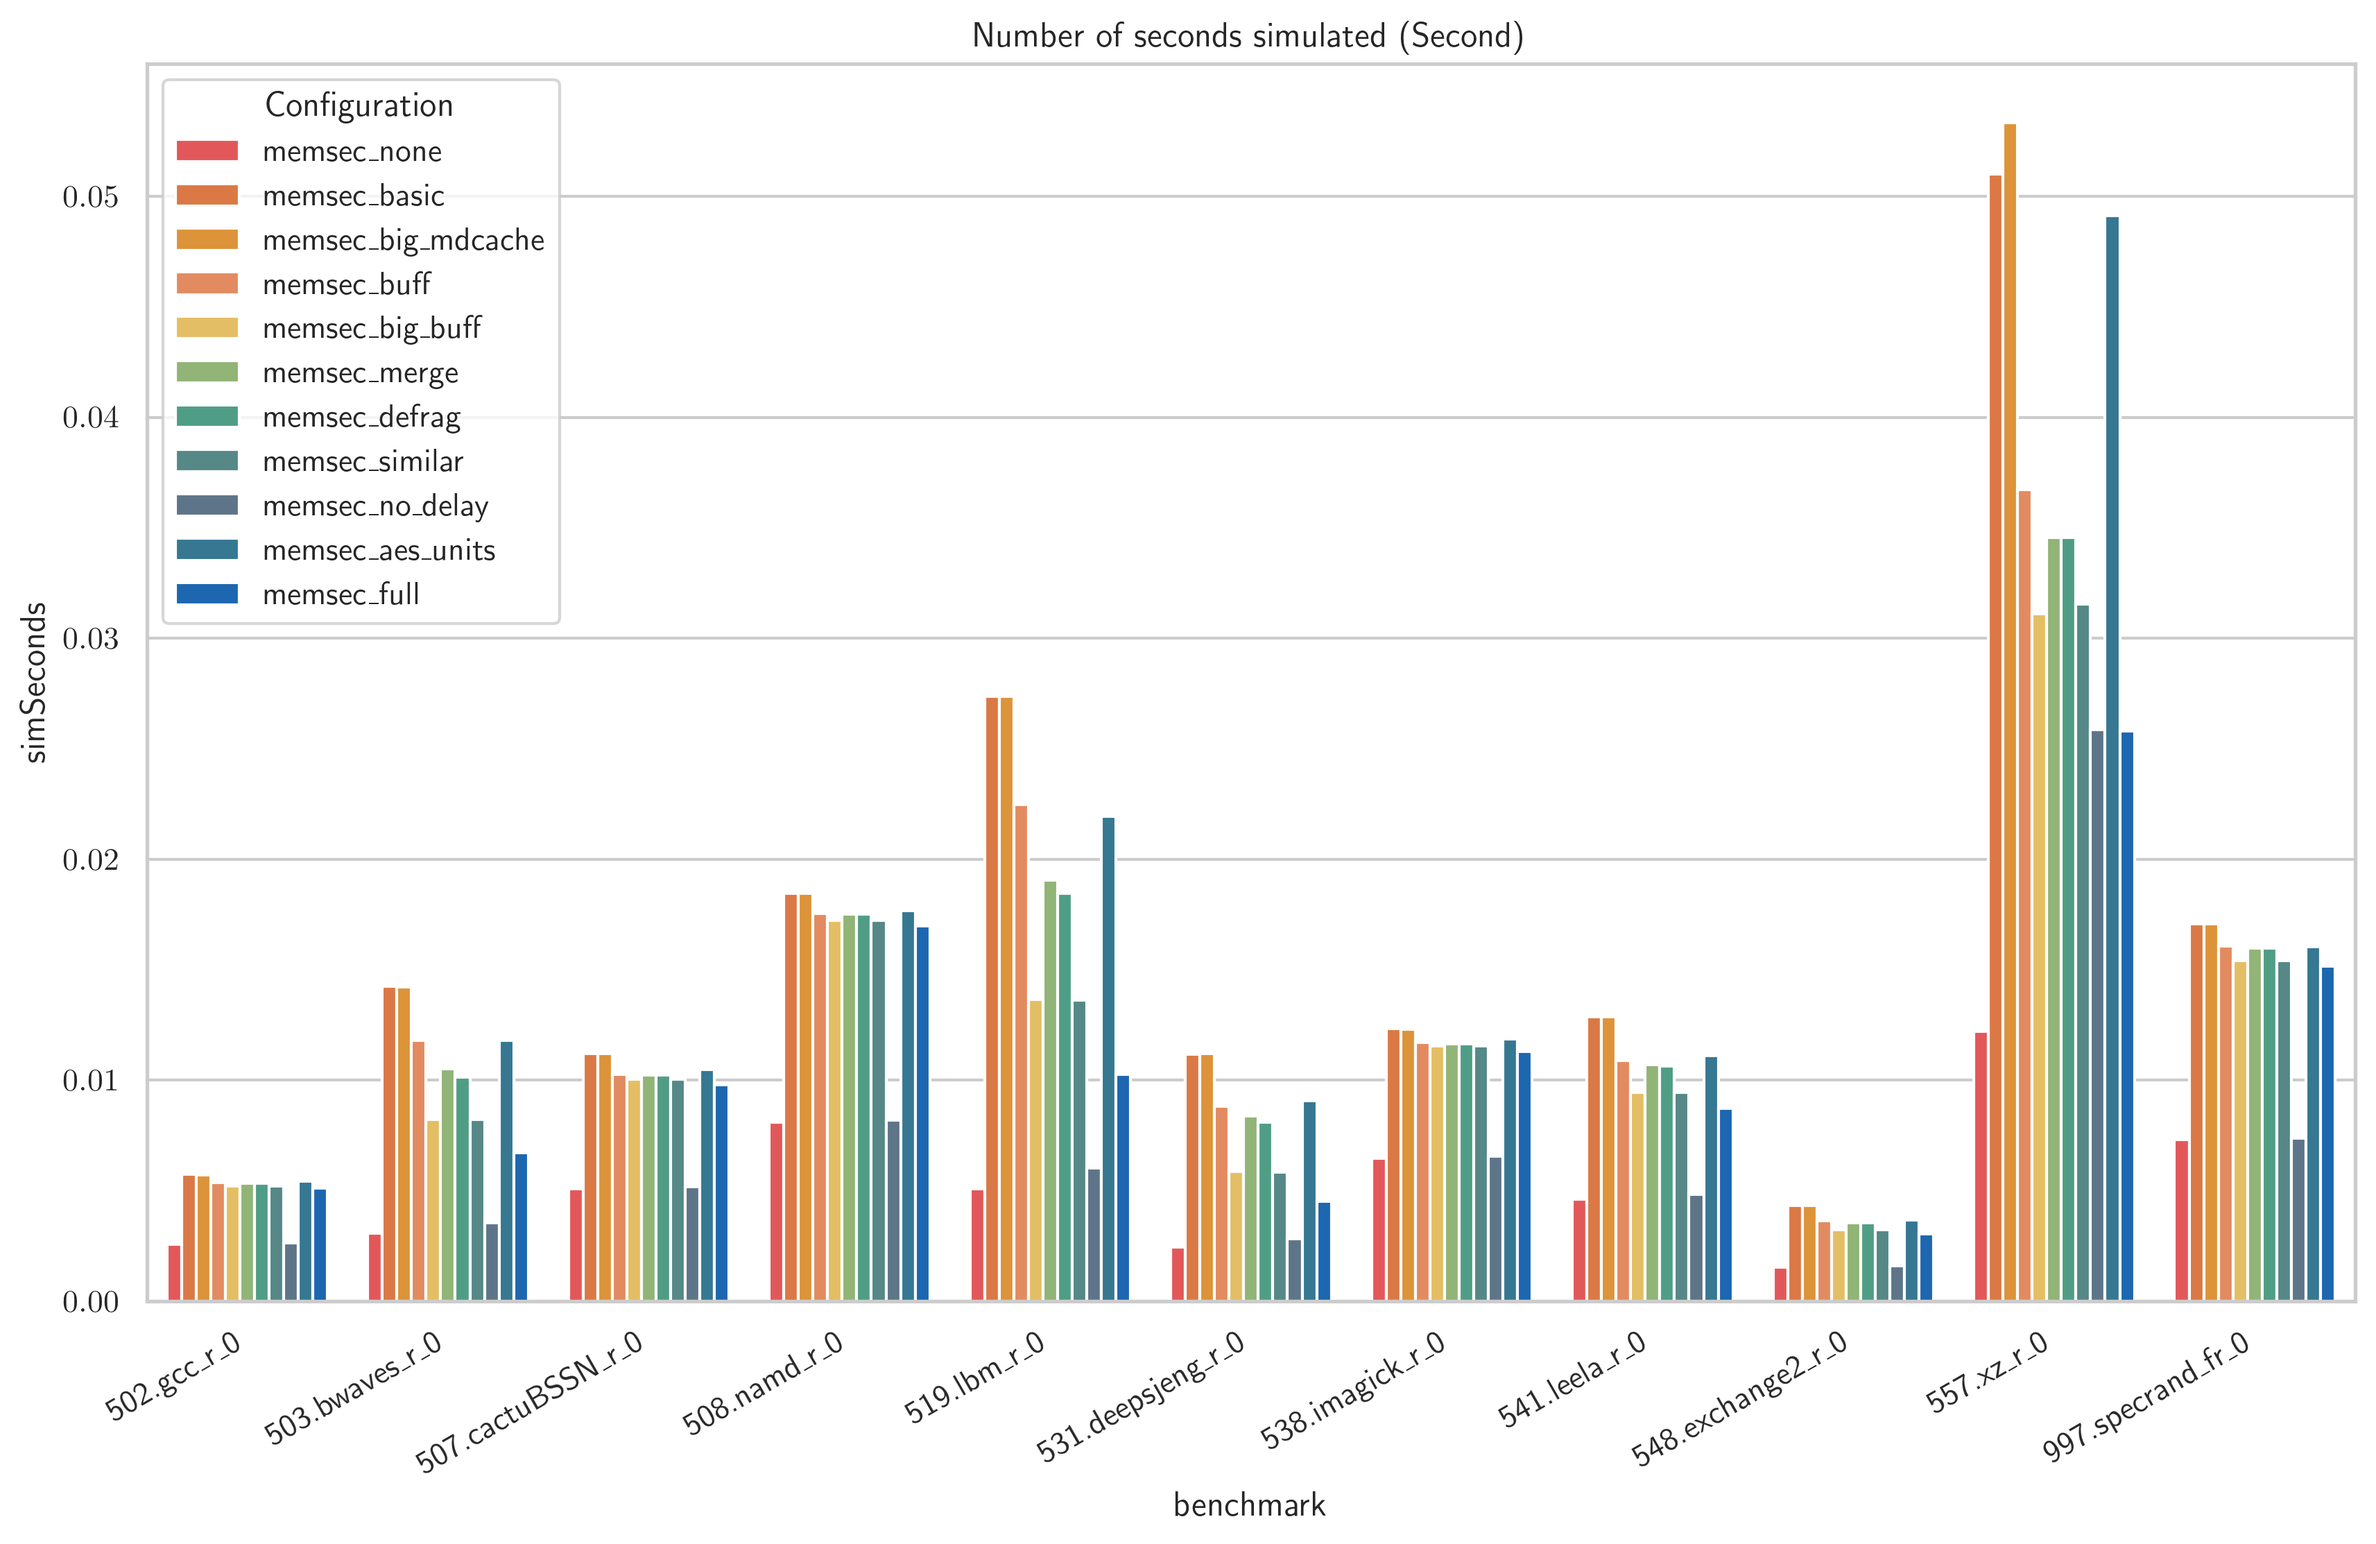
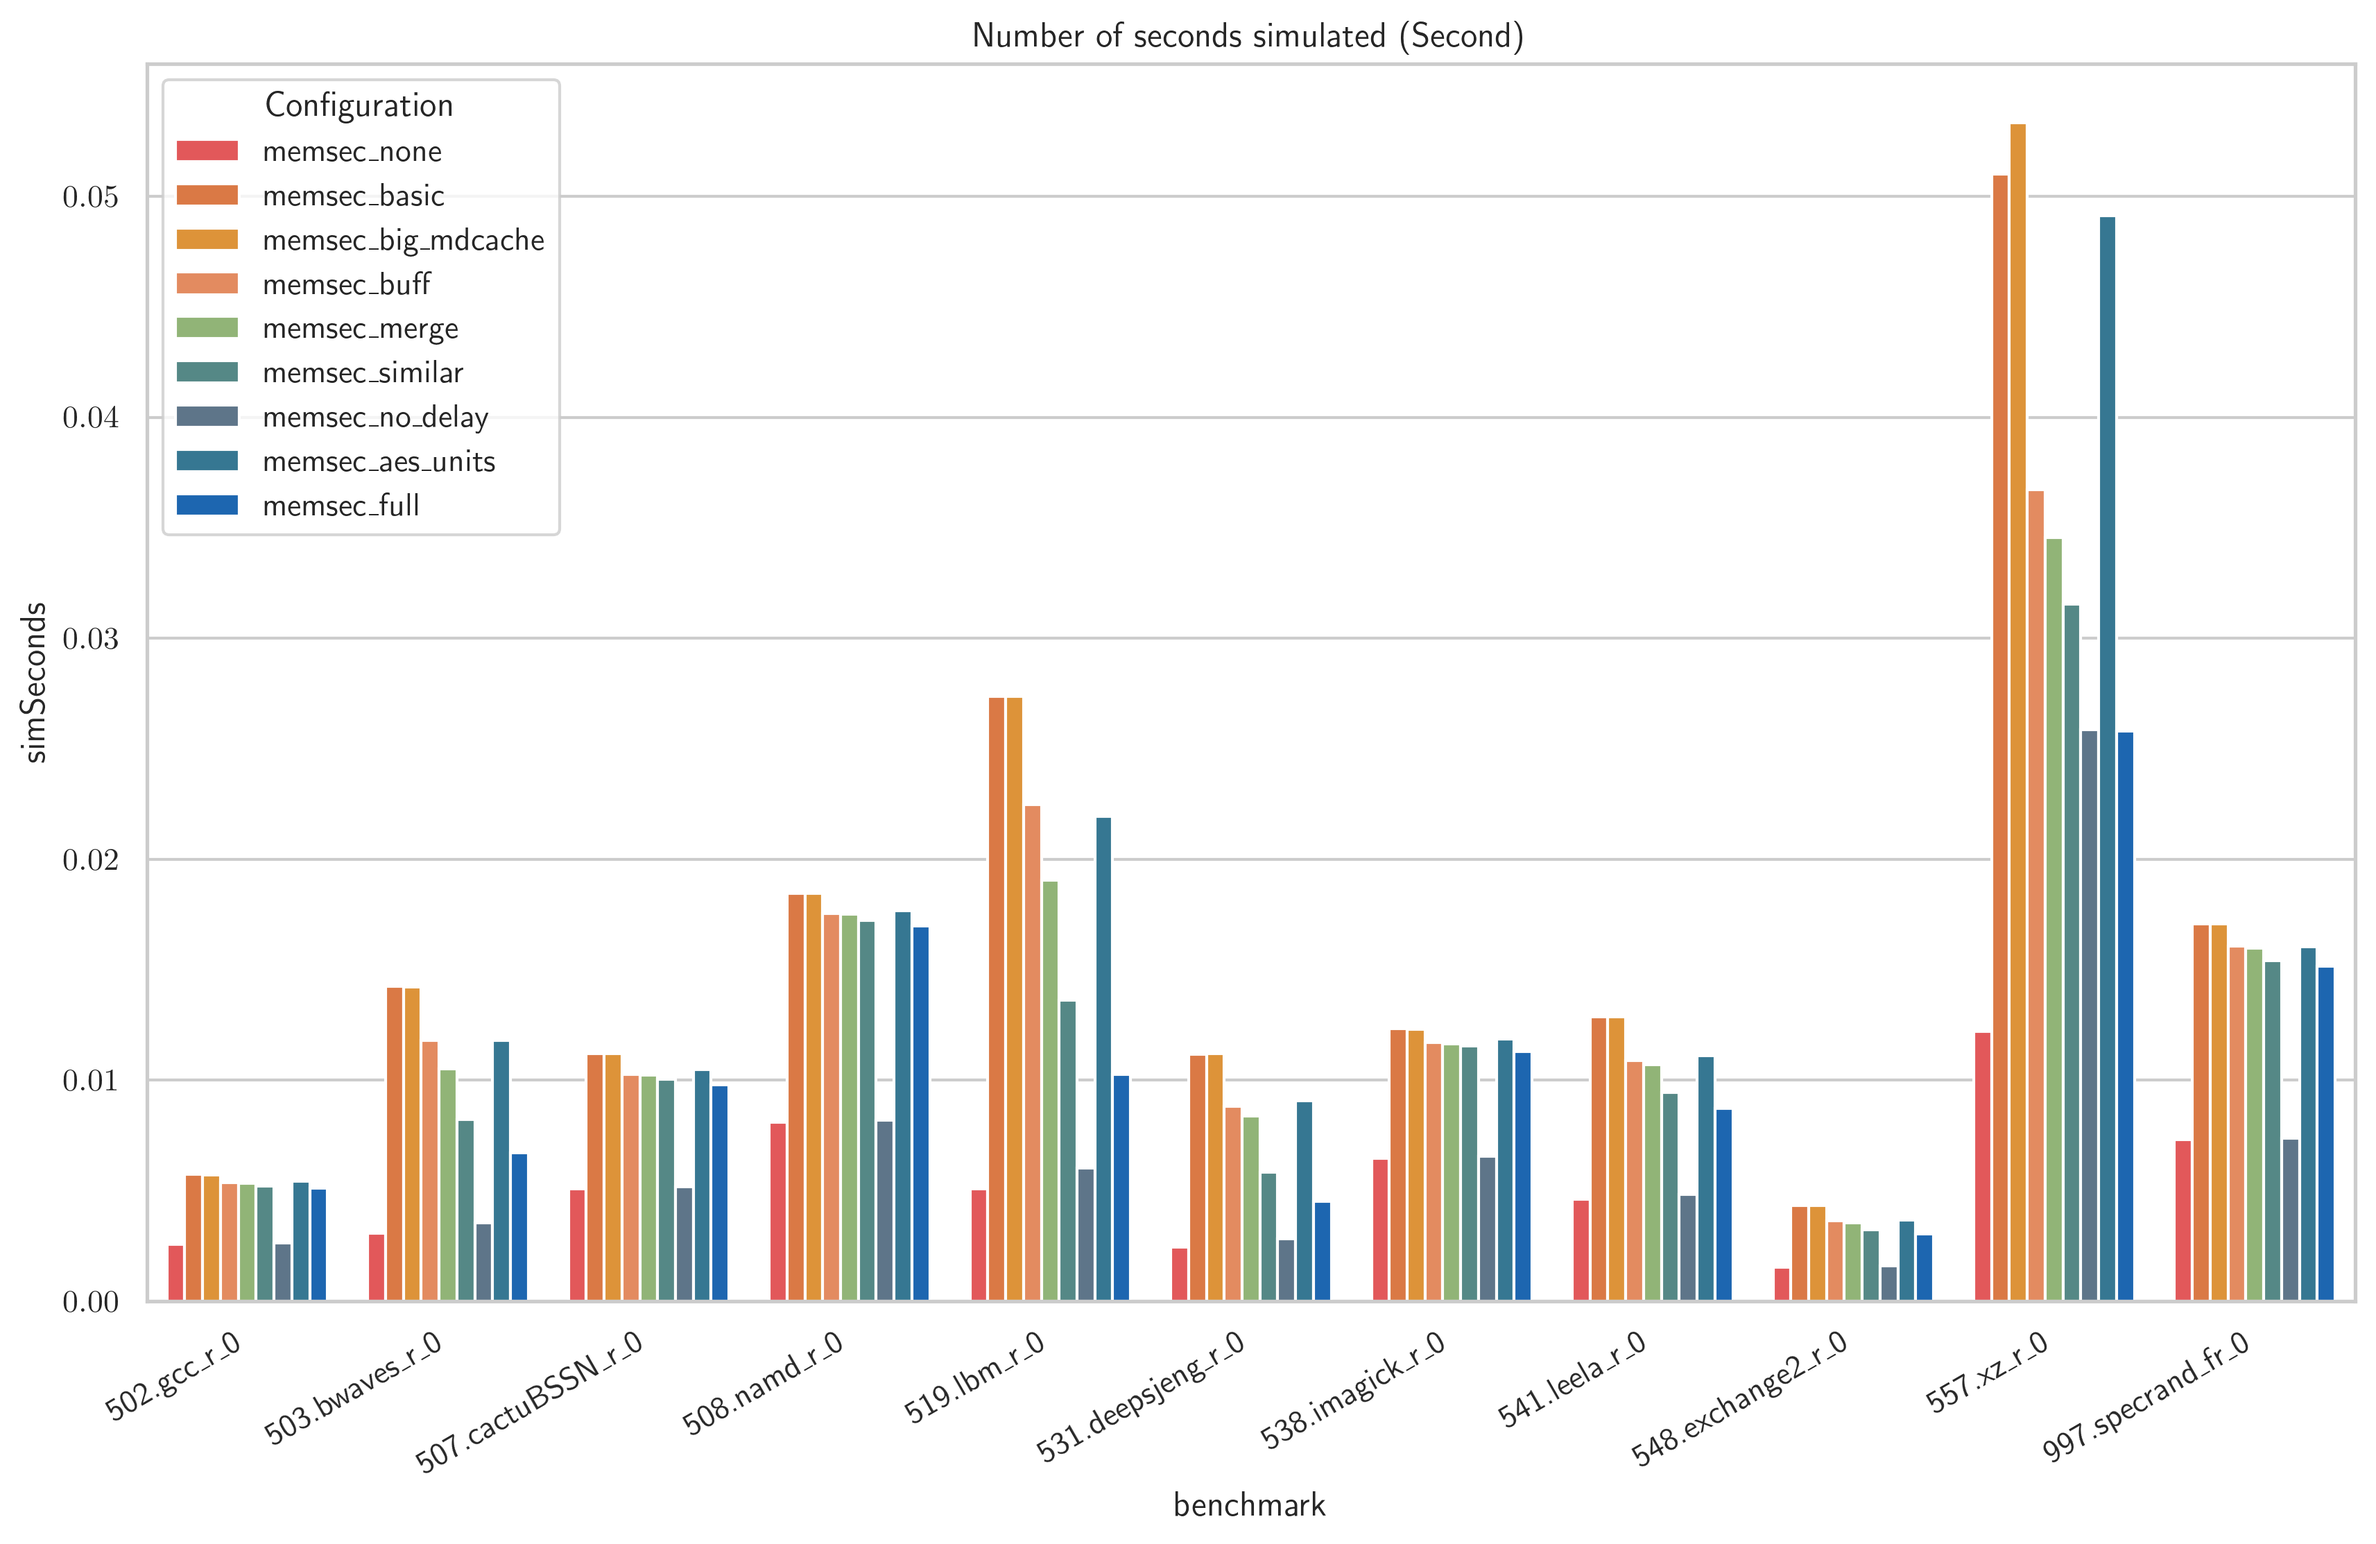
memsec: add option to generate geomean plots

diff --git a/benchmark/gen_summary.py b/benchmark/gen_summary.py
@@ -3,10 +3,20 @@ import argparse
 import os
 import re
 import sys
+import warnings
 
 import matplotlib.pyplot as plt
+import numpy as np
 import pandas as pd
 import seaborn as sns
+from scipy import stats
+
+# seaborn causes a barrage of warnings to be printed
+warnings.filterwarnings(
+    "ignore",
+    category=FutureWarning,
+    module="seaborn",
+)
 
 aim_overhead_binmask = 0xFFFFE0000000
 
@@ -84,8 +94,9 @@ color_mapping = {
     "memsec_none": "#f94144",
     "memsec_basic": "#f3722c",
     "memsec_big_mdcache": "#f8961e",
-    "memsec_buff": "#f9844a",
-    "memsec_big_buff": "#f9c74f",
+    # "memsec_buff": "#f9844a",
+    # "memsec_big_buff": "#f9c74f",
+    "memsec_buff": "#f9c74f",
     "memsec_merge": "#90be6d",
     "memsec_defrag": "#43aa8b",
     "memsec_similar": "#4d908e",
@@ -93,6 +104,9 @@ color_mapping = {
     "memsec_aes_units": "#277da1",
     "memsec_full": "#0466c8",
 }
+
+# baseline can be set for geomean plots
+baseline_config = "memsec_basic"
 
 
 def check_fields(line, fields):
@@ -178,17 +192,39 @@ def summarize_statistics(args, statistics):
     os.makedirs(args.plots_path, exist_ok=True)
     print(f'created folder "{args.plots_path}"')
 
+    # configure plots
+    sns.set_theme(style="whitegrid")
+    plt.rcParams.update(
+        {
+            "text.usetex": True,
+            "font.family": "sans-serif",
+            "font.size": "26",
+        }
+    )
+
     df_gem5 = prepare_df(pd.DataFrame(data["by-gem5"]))
     for stat in gem5_fields:
         plot_stat_bar(
             df_gem5, stat, descriptions[stat], "gem5", args.plots_path
         )
+        if args.geomean:
+            plot_stat_geomean(
+                df_gem5, stat, descriptions[stat], "gem5", args.plots_path
+            )
         # plot_stat_line(df_gem5, stat, descriptions[stat], "gem5", args.plots_path)
     df_dramsim3 = prepare_df(pd.DataFrame(data["by-dramsim3"]["channel0"]))
     for stat in dramsim3_fields:
         plot_stat_bar(
             df_dramsim3, stat, descriptions[stat], "dramsim3", args.plots_path
         )
+        if args.geomean:
+            plot_stat_geomean(
+                df_dramsim3,
+                stat,
+                descriptions[stat],
+                "dramsim3",
+                args.plots_path,
+            )
         # plot_stat_line(df_dramsim3, stat, descriptions[stat], "dramsim3", args.plots_path)
 
 
@@ -269,15 +305,6 @@ def prepare_df(df):
 
 
 def plot_accesses(data, title, plots_path):
-    sns.set(style="whitegrid")
-    plt.rcParams.update(
-        {
-            "text.usetex": True,
-            "font.family": "sans-serif",
-            "font.size": "26",
-        }
-    )
-
     df = (
         pd.DataFrame.from_dict(data, orient="index")
         .reset_index()
@@ -289,7 +316,7 @@ def plot_accesses(data, title, plots_path):
 
     plt.figure(figsize=(12, 8))
     ax = sns.barplot(
-        data=df,
+        data=df.copy(),
         x="benchmark",
         y="value",
         hue="configuration",
@@ -313,15 +340,6 @@ def plot_accesses(data, title, plots_path):
 
 
 def plot_stat_line(df, stat, title, simulator, plots_path):
-    sns.set(style="whitegrid")
-    plt.rcParams.update(
-        {
-            "text.usetex": True,
-            "font.family": "sans-serif",
-            "font.size": "26",
-        }
-    )
-
     # order x-axis by mean of stat (introduces non-consistent)
     # benchmark order!
     agg = df.groupby("benchmark")[stat].mean()
@@ -332,7 +350,7 @@ def plot_stat_line(df, stat, title, simulator, plots_path):
 
     plt.figure(figsize=(12, 8))
     ax = sns.lineplot(
-        data=df,
+        data=df.copy(),
         x="benchmark",
         y=stat,
         hue="configuration",
@@ -359,19 +377,11 @@ def plot_stat_line(df, stat, title, simulator, plots_path):
 
 
 def plot_stat_bar(df, stat, title, simulator, plots_path):
-    sns.set(style="whitegrid")
-    plt.rcParams.update(
-        {
-            "text.usetex": True,
-            "font.family": "sans-serif",
-            "font.size": "26",
-        }
-    )
     plt.figure(figsize=(12, 8))
     ax = sns.barplot(
         x="benchmark",
         y=stat,
-        data=df,
+        data=df.copy(),
         hue="configuration",
         palette=color_mapping,
         hue_order=color_mapping.keys(),
@@ -385,6 +395,64 @@ def plot_stat_bar(df, stat, title, simulator, plots_path):
     plt.savefig(filename, dpi=300, bbox_inches="tight")
     print(f"saved figure {simulator}-{stat} to file {filename}")
 
+    plt.close()
+
+
+def plot_stat_geomean(df, stat, title, simulator, plots_path):
+    if stat not in df.columns:
+        print(f"skipping geomean plot for {stat}: not in dataframe")
+        return
+
+    # normalize each benchmark's value to the baseline configuration
+    df_pivot = df.pivot(
+        index="benchmark", columns="configuration", values=stat
+    )
+    if baseline_config not in df_pivot.columns:
+        print(
+            f"skipping geomean plot for {stat}: baseline '{baseline_config}' not found"
+        )
+        return
+
+    df_norm = df_pivot.div(df_pivot[baseline_config], axis=0)
+
+    configs = [c for c in color_mapping.keys() if c in df_norm.columns]
+    geomeans = [stats.gmean(df_norm[c].dropna()) for c in configs]
+    colors = [color_mapping[c] for c in configs]
+
+    fig, ax = plt.subplots(figsize=(12, 6))
+
+    x = np.arange(len(configs))
+    bars = ax.bar(x, geomeans, color=colors, zorder=2)
+
+    # overlay individual benchmark values as scatter dots
+    for i, cfg in enumerate(configs):
+        vals = df_norm[cfg].dropna().values
+        ax.scatter(
+            np.full(len(vals), i),
+            vals,
+            color="black",
+            s=20,
+            alpha=0.6,
+            zorder=3,
+        )
+
+    ax.axhline(1.0, color="black", linewidth=0.8, linestyle="--", zorder=1)
+    ax.set_xticks(x)
+    ax.set_xticklabels(
+        [c.replace("memsec_", "") for c in configs],
+        rotation=30,
+        ha="right",
+    )
+    ax.set_ylabel(
+        f"Normalized to {baseline_config.replace('memsec_', '')} (geomean + per-benchmark)"
+    )
+    ax.set_title(title)
+    plt.tight_layout()
+
+    prefix = f"{simulator}-geo-{stat}"
+    filename = os.path.join(plots_path, f"{prefix}.png")
+    plt.savefig(filename, dpi=300, bbox_inches="tight")
+    print(f"saved figure {prefix} to file {filename}")
     plt.close()
 
 
@@ -500,6 +568,12 @@ if __name__ == "__main__":
         "--skip-overhead",
         action=argparse.BooleanOptionalAction,
         help="Run only overhead analysis on dramsim3 schedule files",
+    )
+    parser.add_argument(
+        "-g",
+        "--geomean",
+        action=argparse.BooleanOptionalAction,
+        help="Also generate geomean+scatter plots for gem5 metrics, normalized to the 'basic' configuration",
     )
     parser.add_argument(
         "-l",
